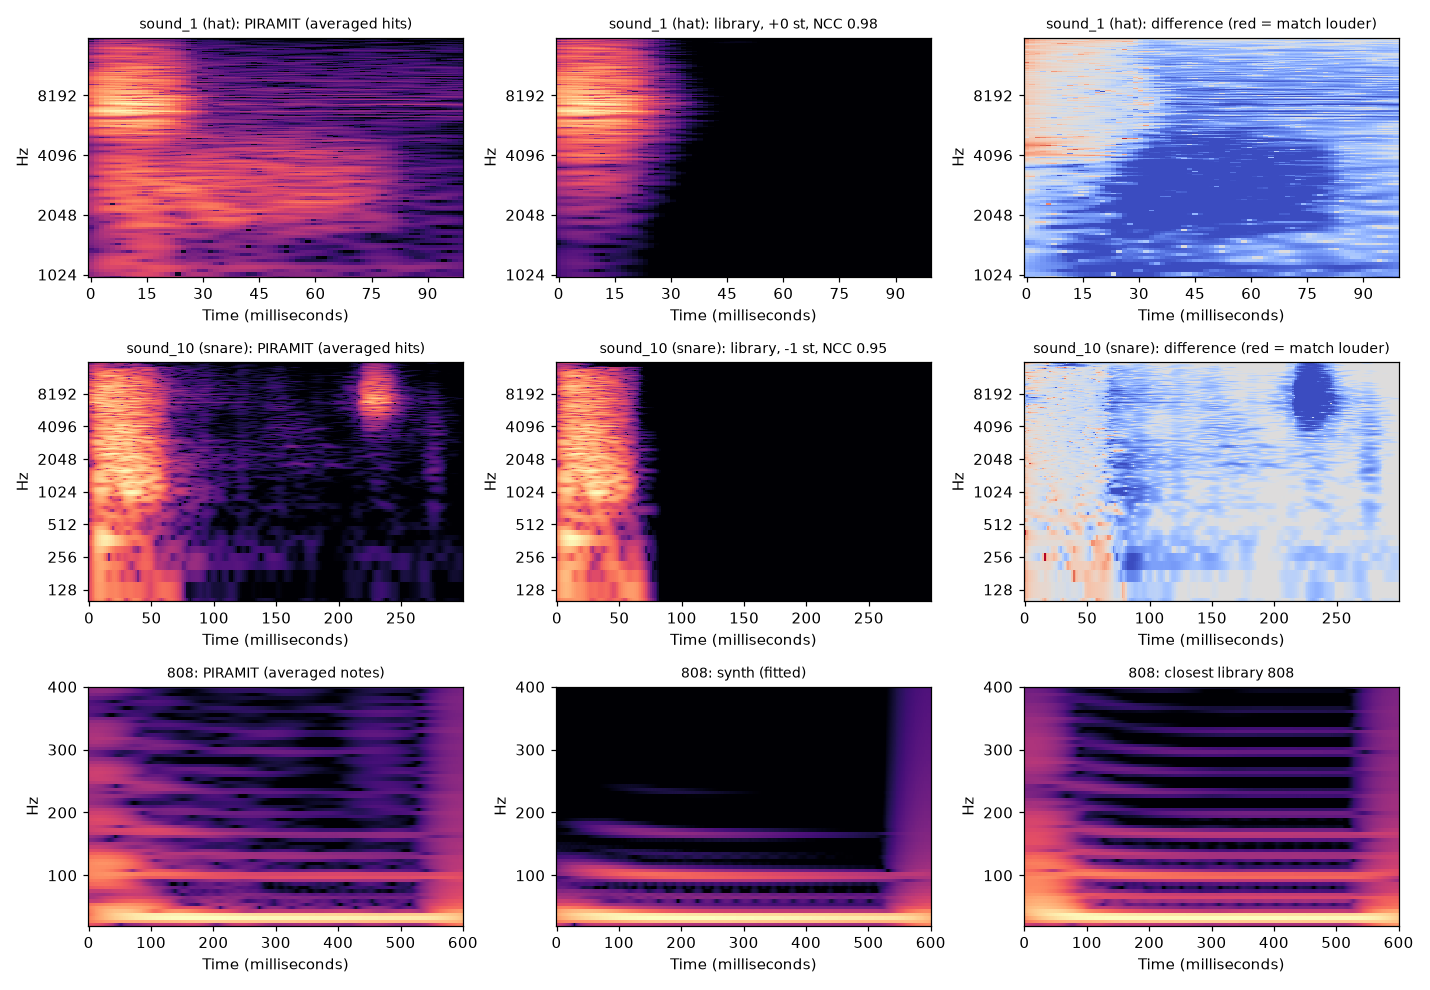
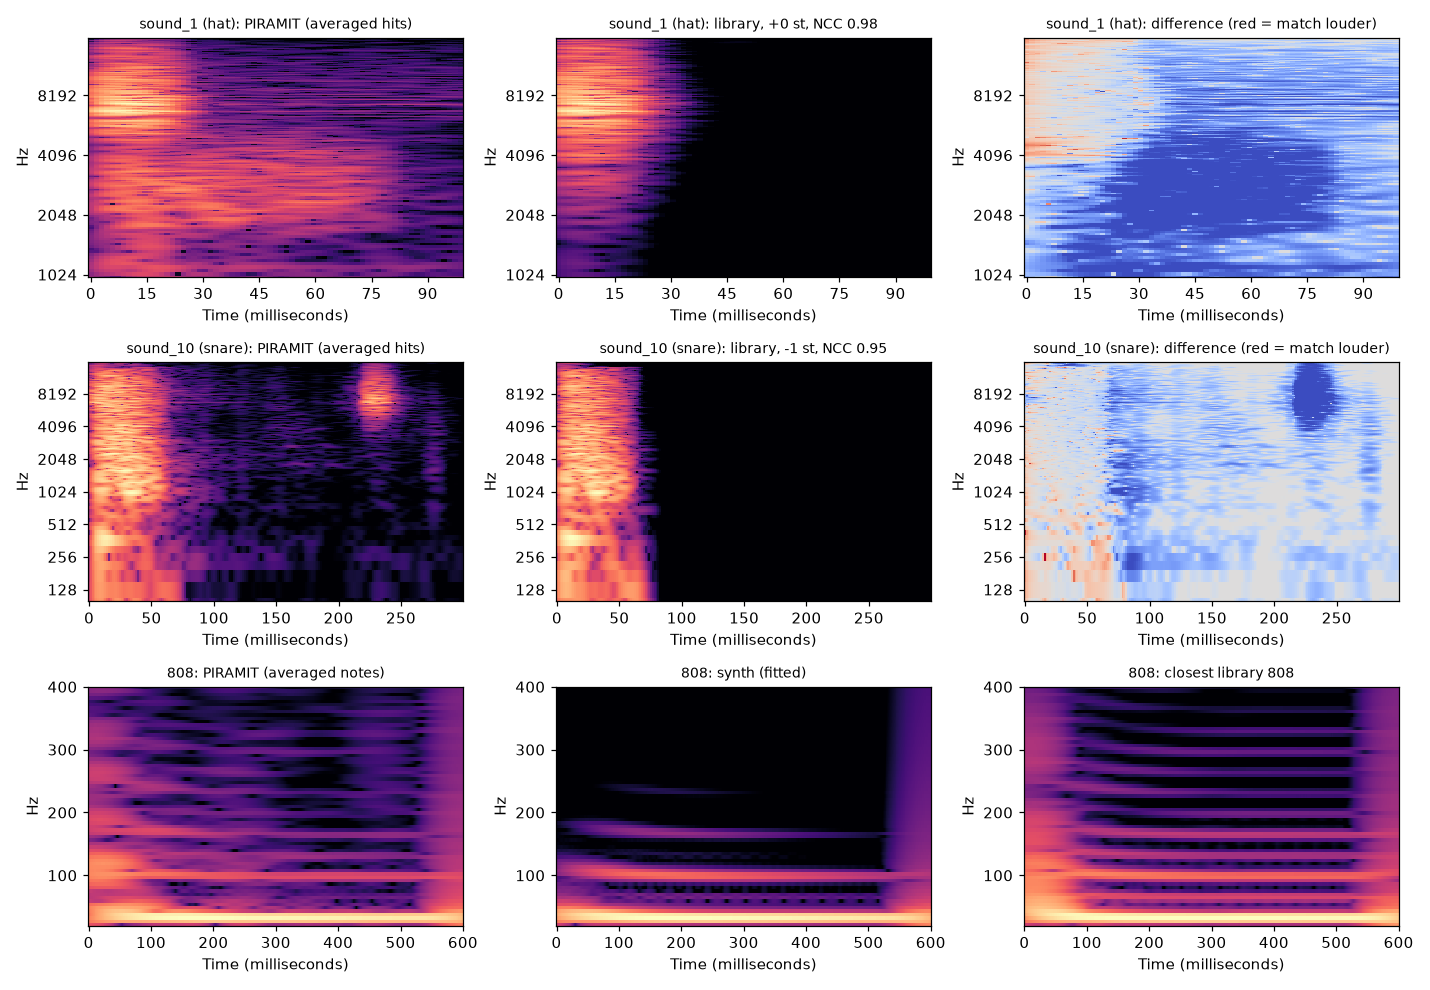
PIRAMIT re-run with the stable-peak tuning and the 808's own offset
analyze, match, fit-808 and plan again on the same stems: consensus 0.00
(A4 = 440 Hz), the 808 at +33 cents (agreement 0.64). 107 of 126 808 notes
are now C1 (105 before), the one-shot is at 33.33 Hz (33.24), and the fit
took 49 s (199 s). The twelve drum matches are unchanged; the synth keeps NCC
0.975, the best library 808 is 0.947 (0.945). README, the case study and the
808 page carry the new numbers; consensus no longer prints as -0.0.

Changed region(s): [[0.1231, 0.697, 0.2462, 0.9394], [0.4, 0.8485, 0.6154, 0.9091]]

diff --git a/src/refdissect/pipeline.py b/src/refdissect/pipeline.py
@@ -50,7 +50,7 @@ def analyze(stems_dir: str | Path, work: str | Path, bpm_range=(100.0, 180.0), l
     log(f"grid: {grid.bpm} BPM, first beat at {grid.phase} s")
     tunings = {s: tuning(read(stems_dir / f"{s}.wav")) for s in TONAL_STEMS
                if (stems_dir / f"{s}.wav").is_file()}
-    consensus = round(float(np.median(list(tunings.values()))), 2) if tunings else 0.0
+    consensus = round(float(np.median(list(tunings.values()))), 2) + 0.0 if tunings else 0.0  # no -0.0
     log(f"tuning (semitones from A440): {tunings} -> {consensus:+.2f}")
     templates = discover(drums, grid)
     events = detect(drums, templates)

diff --git a/docs/02-case-study-piramit.md b/docs/02-case-study-piramit.md
@@ -35,11 +35,11 @@ A Turkish trap track (album *VERITAS II*), 2:06.
 
 **Correction.** This section first said the whole track sat at +0.28 semitones (A4 ≈ 447 Hz). That came from `librosa.estimate_tuning`, which is off by up to 60 cents on synthetic tones. Measured with stable spectral peaks (within 1 cent on synthetic tones) and checked with pyin (+2 to +3 cents on piano and other), the melodic stems are at A440. Only the 808 is detuned: its sample sits about a third of a semitone sharp. The bass stem's +11 is the 808 mixed with cleaner bass notes.
 
-**What it explains.** The prototype's 808 notes split between C (90) and C# (82), and its key estimate wavered between C minor and C major. Notes at C + 30 cents round either way. With the 808's own offset removed before rounding, 105 of the 126 808 notes are C1.
+**What it explains.** The prototype's 808 notes split between C (90) and C# (82), and its key estimate wavered between C minor and C major. Notes at C + 30 cents round either way. With the 808's own offset removed before rounding, 107 of the 126 808 notes are C1 (105 with the first version's +28 cents).
 
 **What it is not.** It could have been a whole track sped up: 1.5 % faster would also turn 135 BPM into 137. Matching every drum sample shifted by +0.26 semitones made the matches *worse*: the snare fell from 0.86 to 0.25 and the hat from 0.90 to 0.63. The drums are at their own pitch, and so are the melodic parts.
 
-**In Live.** The 808 one-shot is rendered at the 808's pitch (C1 + 28 cents, 33.24 Hz in the first build; +33 cents measured on its notes). Melodic parts need no offset.
+**In Live.** The 808 one-shot is rendered at the 808's own pitch: C1 + 33 cents, 33.33 Hz (33.24 Hz in the first build). Melodic parts need no offset.
 
 ## Drums
 
@@ -72,33 +72,33 @@ What the table says about the beat:
 
   | pitch | C1 | C#1 | G1 | D#1 | E1 | G0 | C2 |
   |---|---|---|---|---|---|---|---|
-  | notes | 105 | 14 | 3 | 1 | 1 | 1 | 1 |
+  | notes | 107 | 12 | 3 | 1 | 1 | 1 | 1 |
 
   3 notes slide by more than 1.5 semitones (these are not played yet).
 - **Silences.** The 808 rests in bars 52–56: the breakdown.
-- **Isolated notes.** 73 C1 notes ring at least 600 ms alone; their average is the reference for the fit.
+- **Isolated notes.** 74 C1 notes ring at least 600 ms alone; their average is the reference for the fit.
 - **Pitch drop.** The pitch falls from about 42–44 Hz to 33.2 Hz in the first ~60 ms.
 
 **Fitted voice** (on drums + bass, so the attack is in):
 
 | | value |
 |---|---|
-| pitch | 32.90 Hz end, from 41.44 Hz (+4.0 semitones) |
+| pitch | 32.91 Hz end, from 41.25 Hz (+3.9 semitones) |
 | glide | time constant 60 ms |
-| attack | time constant 78 ms (a soft start, under a click) |
-| decay | 0.48 s |
-| drive | 1.88 (tanh), nearly symmetric |
-| fit | 199 s |
+| attack | time constant 76 ms (a soft start, under a click) |
+| decay | 0.46 s |
+| drive | 1.95 (tanh), nearly symmetric |
+| fit | 49 s (199 s before the fit was made faster) |
 
 **Compared with the average of the isolated notes:**
 
 | | synth | best of 865 library 808s (±12 st) |
 |---|---|---|
-| waveform NCC (808 band) | **0.975** | 0.945 (margin 0.002: no single 808 stands out) |
-| harmonics 2–5 off by | 7.7 dB | **6.6 dB** |
-| harmonics 6–12 off by | 7.4 dB | **2.4 dB** |
-| envelope off by | **0.8 dB** | 1.8 dB |
-| log-mel distance | 22.2 dB | **9.7 dB** |
+| waveform NCC (808 band) | **0.975** | 0.947 (margin 0.002: no single 808 stands out) |
+| harmonics 2–5 off by | **7.4 dB** | 7.8 dB |
+| harmonics 6–12 off by | 7.7 dB | **2.3 dB** |
+| envelope off by | **0.9 dB** | 2.0 dB |
+| log-mel distance | 22.3 dB | **9.7 dB** |
 
 The synth gets pitch, glide and envelope right; the library 808 has the right amount of grit. See [05](05-808-synthesis.md) for why a fit on waveform alone loses the grit entirely.
 

diff --git a/docs/05-808-synthesis.md b/docs/05-808-synthesis.md
@@ -46,15 +46,15 @@ The same reference fitted with two different scores (PIRAMIT, bass-stem referenc
 
 ## Against the library
 
-The fitted voice (drums + bass reference, 199 s fit) against the best of 865 library 808s, tried at ±12 semitones:
+The fitted voice (drums + bass reference, 49 s fit) against the best of 865 library 808s, tried at ±12 semitones:
 
 | | synth | best library 808 |
 |---|---|---|
-| waveform NCC | **0.975** | 0.945 |
-| harmonics 2–5 | 7.7 dB | **6.6 dB** |
-| harmonics 6–12 | 7.4 dB | **2.4 dB** |
-| envelope | **0.8 dB** | 1.8 dB |
-| log-mel distance | 22.2 dB | **9.7 dB** |
+| waveform NCC | **0.975** | 0.947 |
+| harmonics 2–5 | **7.4 dB** | 7.8 dB |
+| harmonics 6–12 | 7.7 dB | **2.3 dB** |
+| envelope | **0.9 dB** | 2.0 dB |
+| log-mel distance | 22.3 dB | **9.7 dB** |
 
 **Reading it.**
 - **The synth** has the pitch curve and the envelope; tanh drive at that level makes too few upper harmonics.
@@ -64,7 +64,7 @@ The fitted voice (drums + bass reference, 199 s fit) against the best of 865 lib
 
 ## In Live
 
-The one-shot is rendered at the 808's own pitch (at first the track's +28 cents, 33.24 Hz; measured on the 808's notes it is +33 cents), 3 s long, −1 dBFS. It goes into Simpler:
+The one-shot is rendered at the 808's own pitch, C1 + 33 cents = 33.33 Hz (33.24 Hz in the first build, at the track tuning then measured), 3 s long, −1 dBFS. It goes into Simpler:
 - **Transpose = 60 − 24 = +36.** MIDI note 24 then plays it at its own pitch, so the transcribed notes keep their real numbers.
 - **Warping off.** Pitch is changed by speed, as an 808 should be.
 - **Volume set to 0 dB.** Simpler loads at −12 dB.

diff --git a/README.md b/README.md
@@ -23,7 +23,7 @@ The work started from one question: *can an AI that cannot hear tell whether the
 | Hi-hat | **The same sample** as a hat in the local library. NCC 0.981; it wins 187 of 189 hits; null-test residual −14.3 dB (next best −7.4 dB). |
 | Snare (even bars) | **The same sample**, pitched **−1 semitone**. NCC 0.953; it wins 27 of 27 hits; residual −10.4 dB (next best −6.4 dB). |
 | Snare (odd bars) | Not in the library: the best match is NCC 0.47. |
-| 808 | 126 notes, 105 of them on C1 (+28 cents). A fitted synth voice reaches NCC 0.975 and a 0.8 dB envelope error, against the best of 865 library 808s at 0.945 and 1.8 dB. The library 808 is closer in harmonics: 2.4 dB off, against 7.4 dB for the synth. |
+| 808 | 126 notes, 107 of them on C1 (the 808 sits +33 cents sharp). A fitted synth voice reaches NCC 0.975 and a 0.9 dB envelope error, against the best of 865 library 808s at 0.947 and 2.0 dB. The library 808 is closer in the upper harmonics: 2.3 dB off, against 7.7 dB for the synth. |
 | Sections | A 1–24 · B 25–28 · C 29–32 · A 33–47 · D 48–51 · E 52–56 (breakdown) · A 57–71 · F 72–73 |
 | Live | `refdissect live-build` built it into an empty Live 12.4 set in 9.7 s: 6 Drum Rack pads, 549 drum notes, 126 808 notes, reference stems for A/B, 8 locators. |
 
